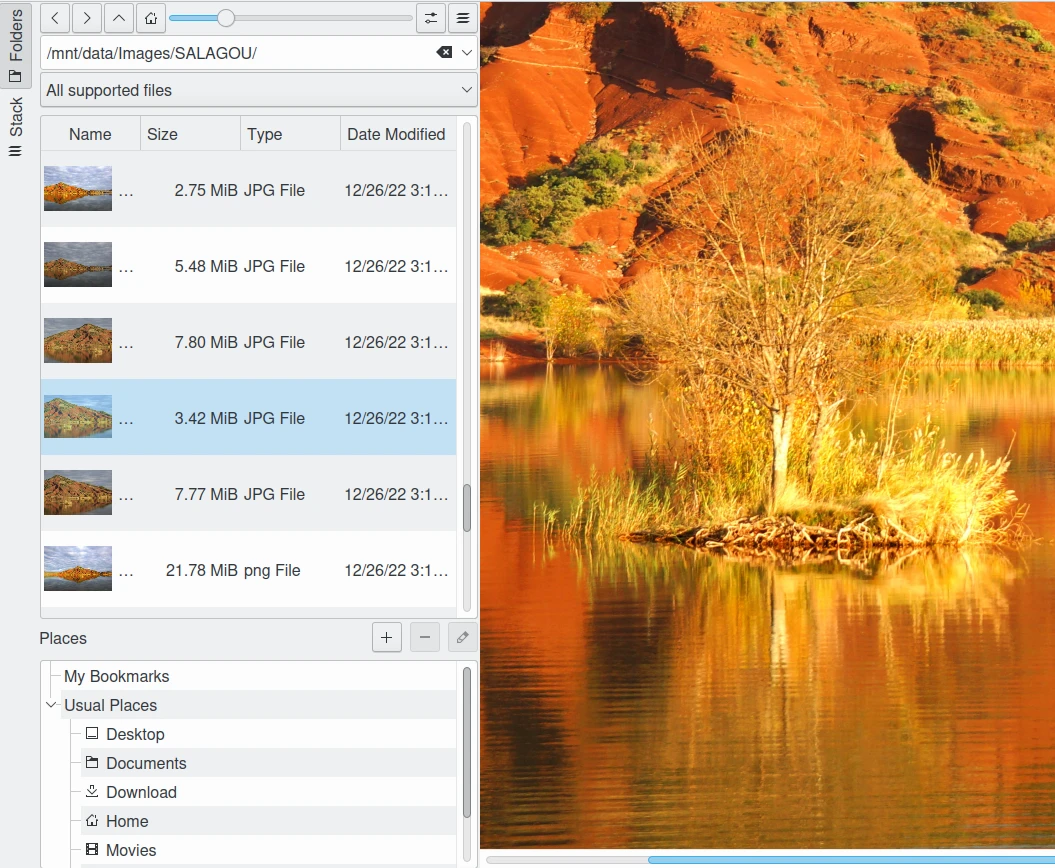
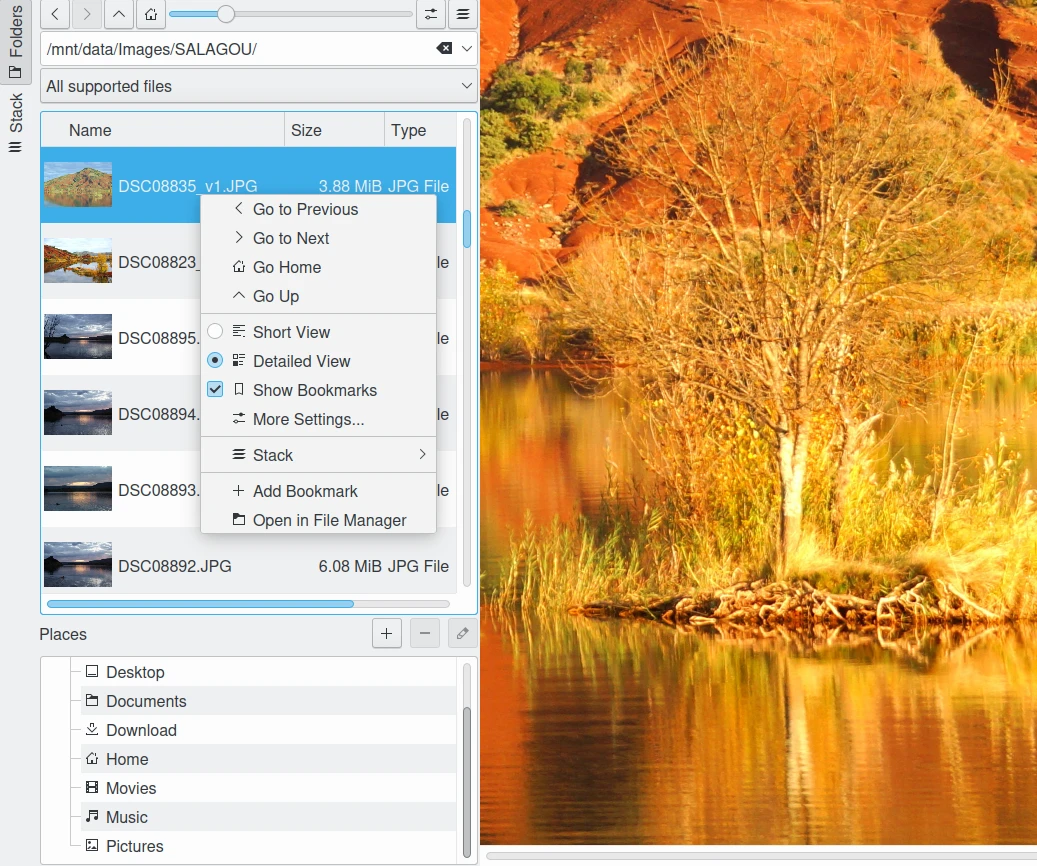
showfoto ++

diff --git a/showfoto_editor/showfoto_leftsidebar.rst b/showfoto_editor/showfoto_leftsidebar.rst
@@ -22,7 +22,15 @@ Left sidebar in Showfoto is the main difference in user interface of Showfoto co
 Folders Tab
 -----------
 
-The **Folders** tab is a complete view to handle your system directory hierarchies, as a desktop file-manager. It divided in 3 views from the top to the bottom:
+The **Folders** tab is a complete view to handle your system directory hierarchies, as a desktop file-manager.
+
+.. figure:: images/showfoto_folders_tab.webp
+    :alt:
+    :align: center
+
+    The Showfoto Stand-Alone Editor Folders Tab from Left Sidebar
+
+It divided in tree views from the top to the bottom:
 
     - **Navigation settings** view providing:
 
@@ -32,15 +40,15 @@ The **Folders** tab is a complete view to handle your system directory hierarchi
 
         - A combo-box where you can apply a type-mime filter to restrict the thumbnails list to the desired file formats.
 
-    - **Thumbnails list** where you can show the image files properties from the current selected folder set in directory combo-box behind. With the tools-bar on the top and with the context menu, you can adjust the flat list settings and assign content to the **Places** or to the **Stack**
+    - **Thumbnails list** where you can show the image files properties from the current selected folder set in directory combo-box behind. With the tools-bar on the top and with the context menu, you can adjust the flat list settings and assign content to the **Places** or to the **Stack**. Double clicking on a item from the list load the contents to the canvas.
 
-    - Your preferred **Places** (Bookmarks).
+    - Your preferred **Places** (Bookmarks). This view is optional and can be disabled in the settings available from thumbnails list context menu or in tools-bar from on the top. **Bookmarks** reference your preferred places that you register when navigating on the folder hierarchies. **Bookmark** properties includes a **Path**, an **Icon**, and a **Title**. these properties can be modified later creation. The **Usual Places** is a read-only group to give a quick access to the standard folders from your personal directory.
 
-.. figure:: images/showfoto_folders_tab.webp
+.. figure:: images/showfoto_new_bookmark.webp
     :alt:
     :align: center
 
-    The Showfoto Stand-Alone Editor Folders Tab from Left Sidebar
+    The Showfoto Dialog to Register a New Bookmark
 
 .. _showfoto_stacktab:
 
